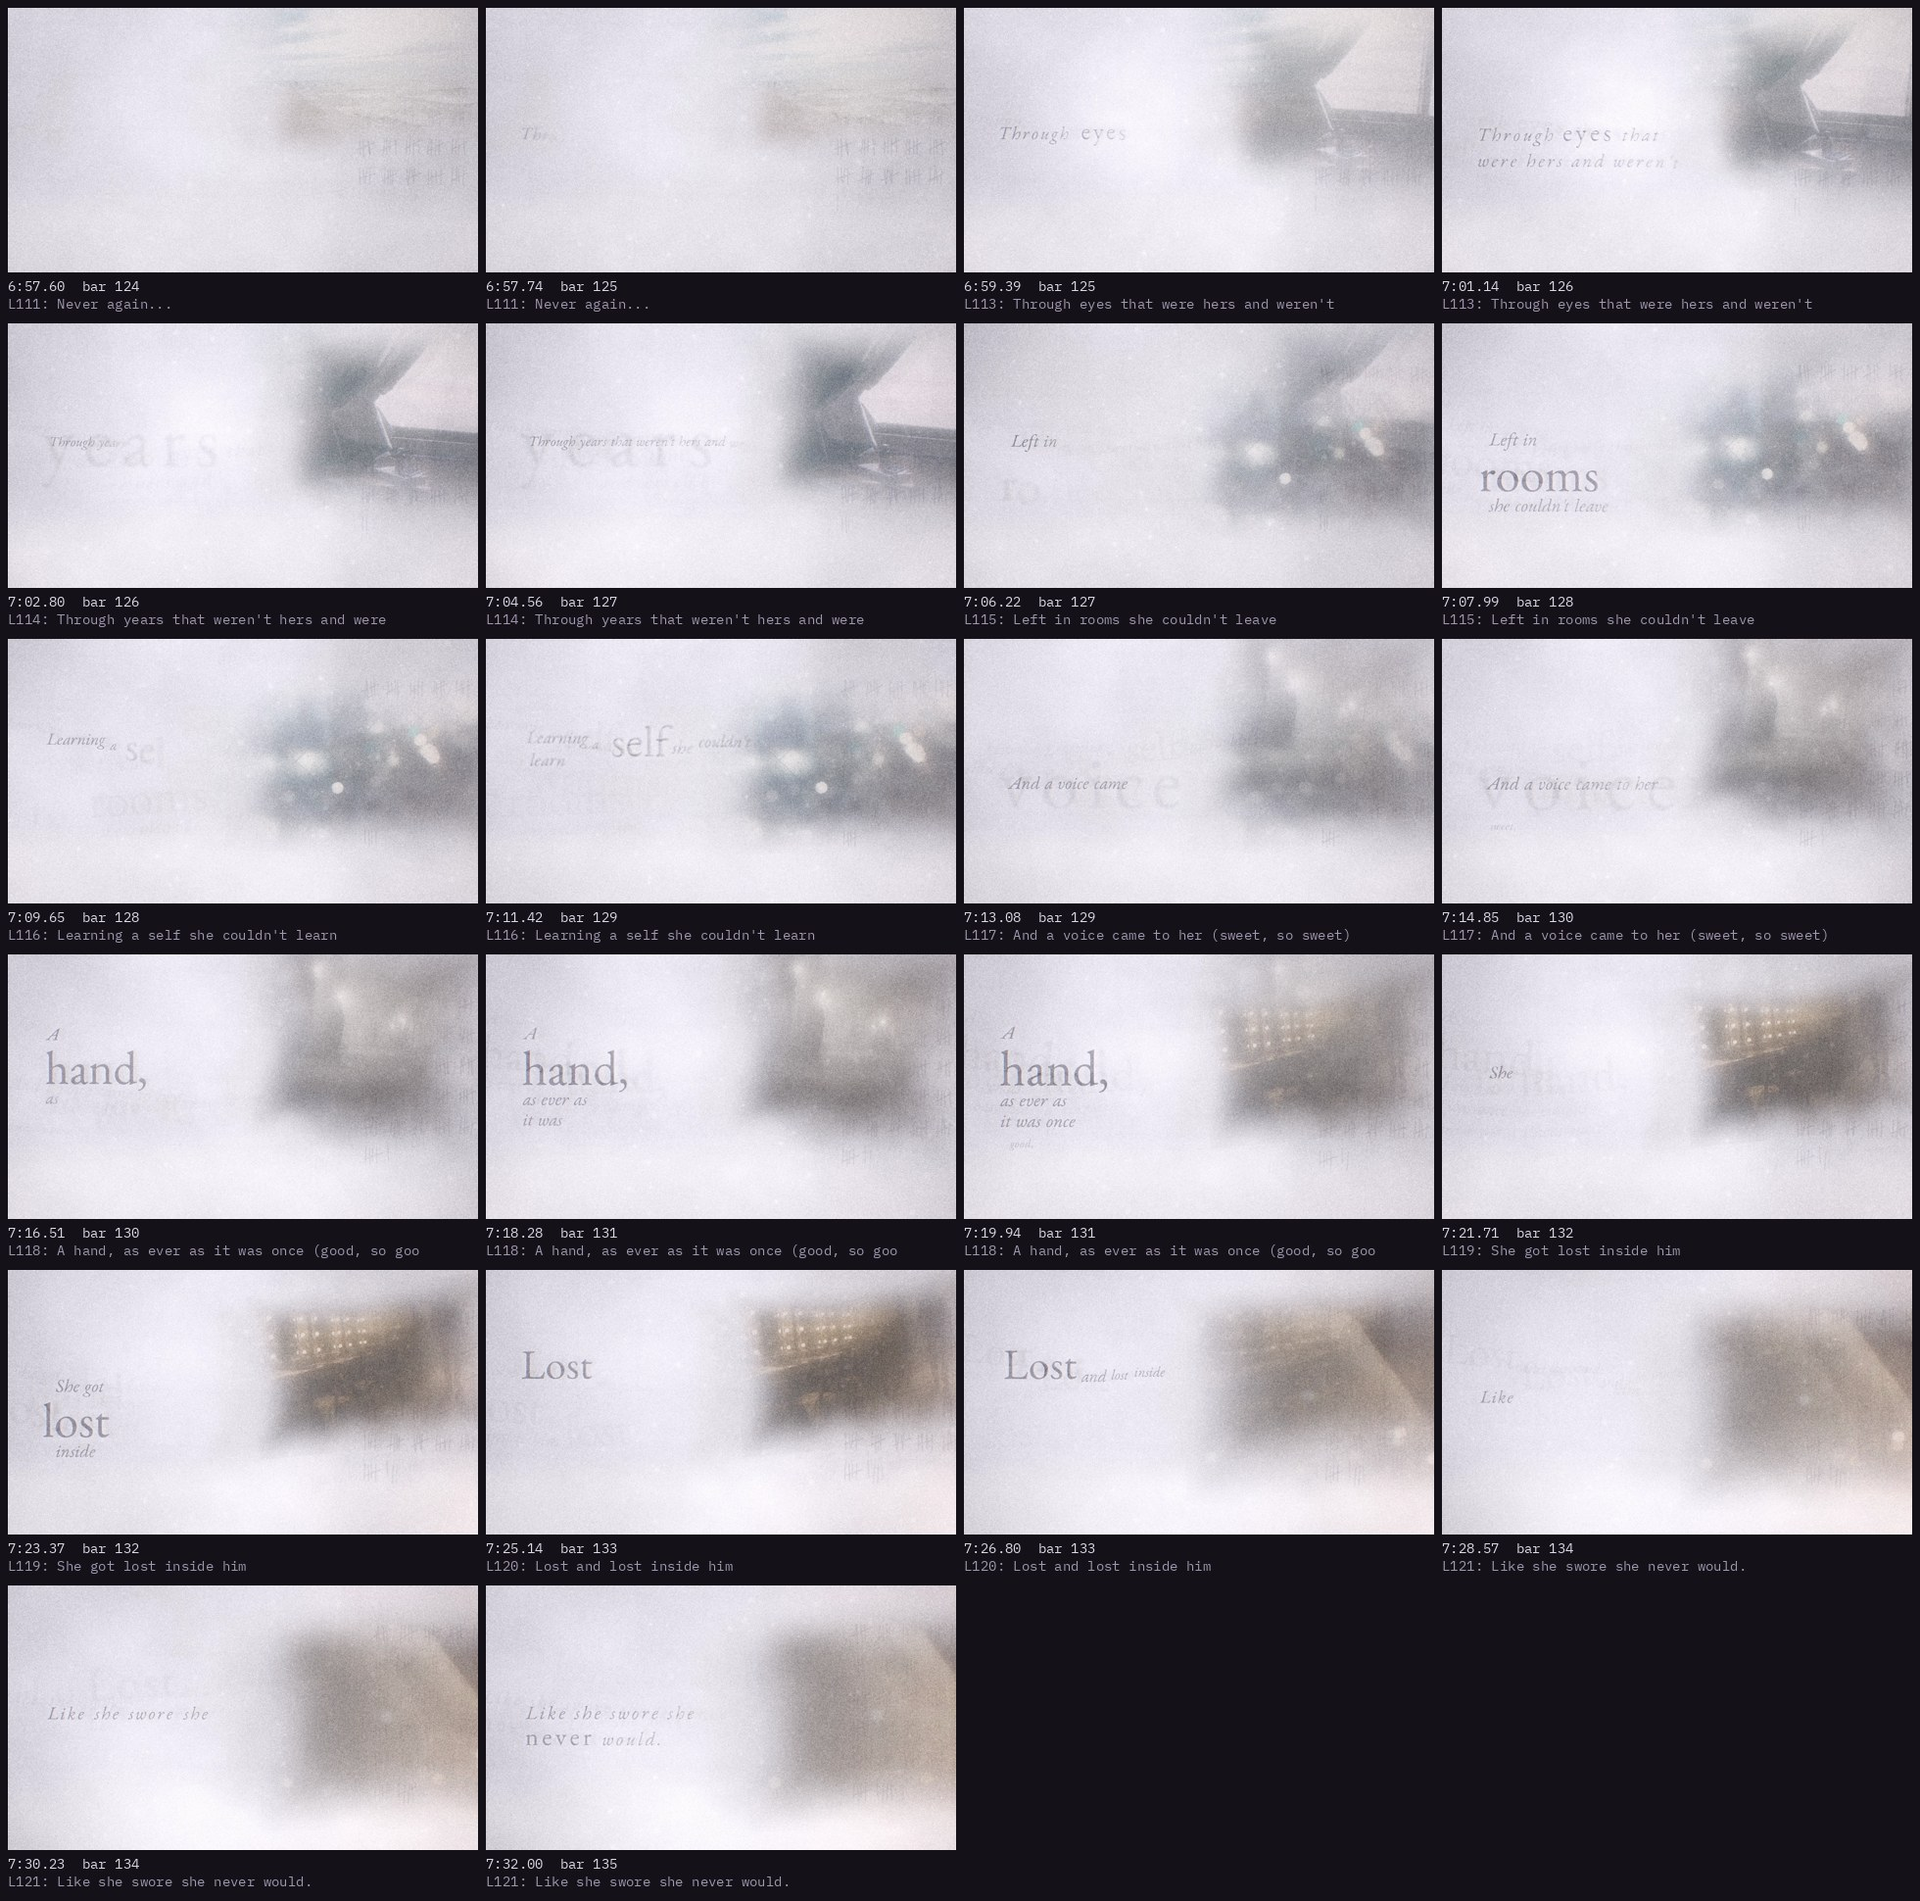
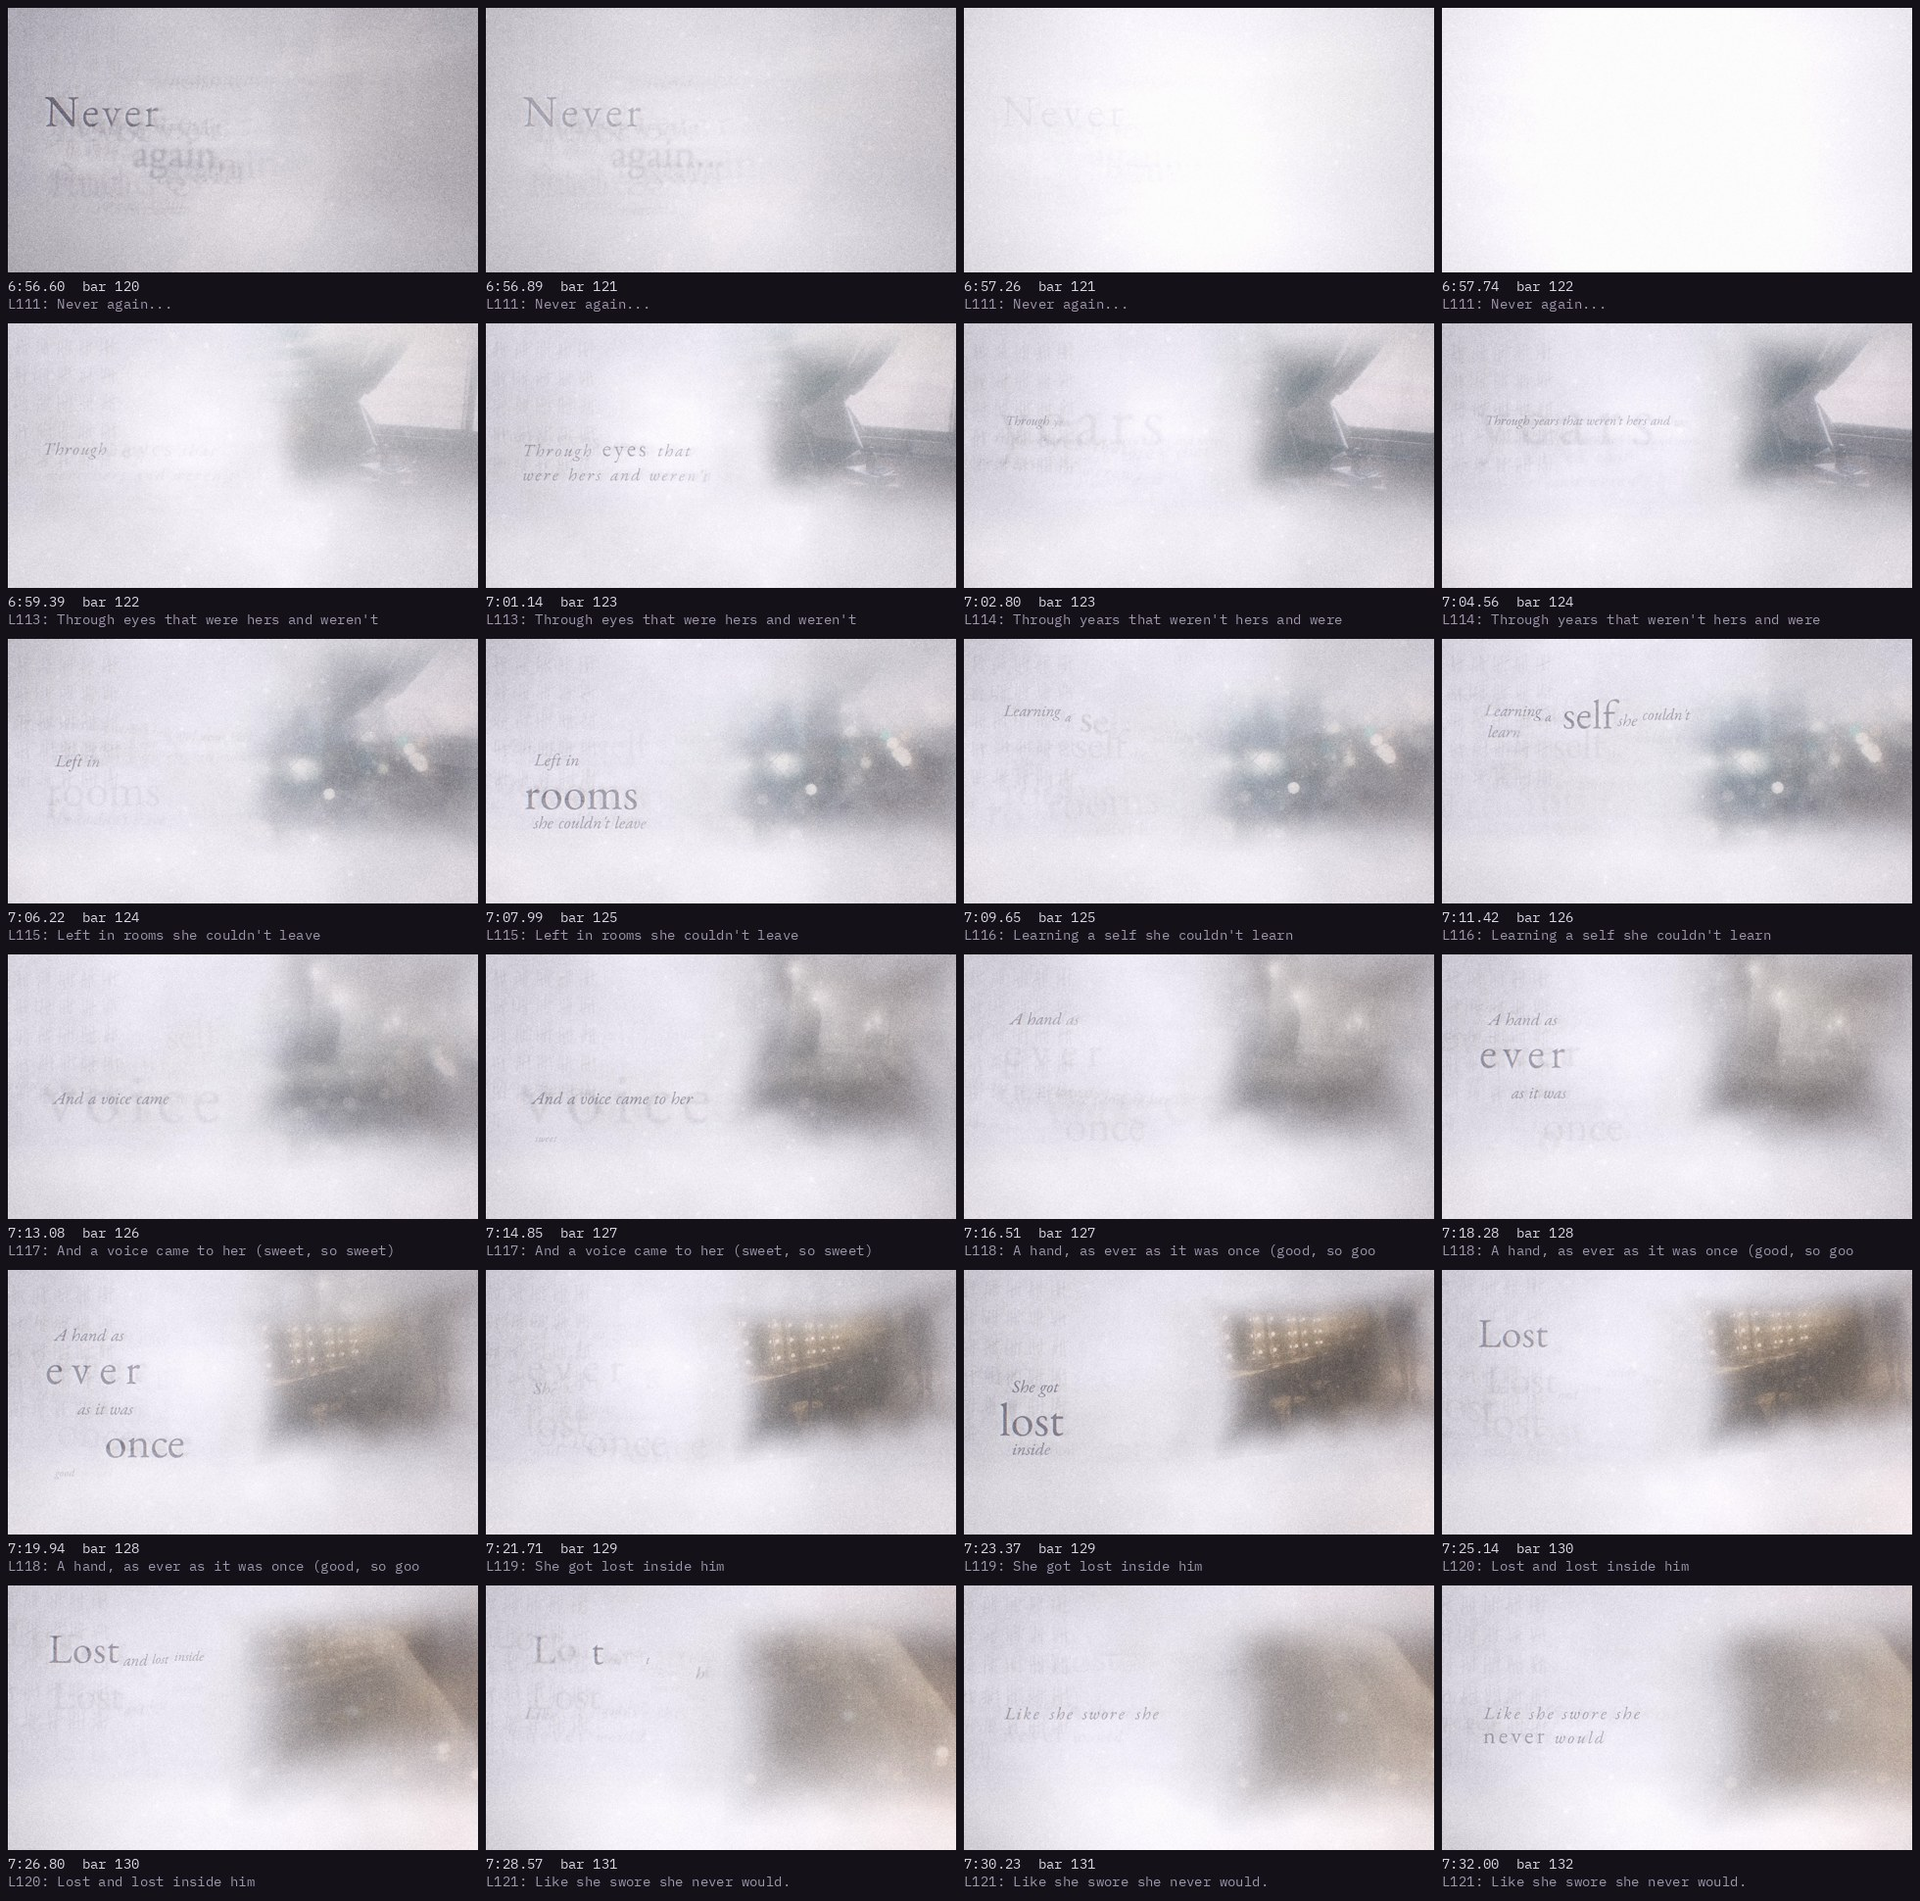
Verse A reprise: less overexposed so her words stay legible
Claude-Session: https://claude.ai/code/session_013aPae8dR11r7xw8o95d9Yi

diff --git a/video/compose.py b/video/compose.py
@@ -82,9 +82,9 @@ def verse_a_like(t, T, lines, name="Verse A: Through eyes", offset=0, seed=3, ye
              diffusion=0.14, grain=0.045, trail=0.62,
              ghosts=((1.2, -160, 0, -5, 0.16), (2.4, 150, -10, 4, 0.10)))
     if years:
-        p.update(exposure=1.02, lift=0.12, sat=0.7, trail=0.7,
-                 ghosts=((1.0, -180, 0, -5, 0.22), (2.0, 170, -10, 4, 0.16),
-                         (3.4, -70, 14, 2, 0.12), (4.6, 90, -16, -3, 0.08)))
+        p.update(exposure=0.95, lift=0.1, sat=0.75, trail=0.66,              # brighter than the
+                 ghosts=((1.0, -180, 0, -5, 0.15), (2.0, 170, -10, 4, 0.11),  # first time, her
+                         (3.4, -70, 14, 2, 0.08), (4.6, 90, -16, -3, 0.05)))   # words still legible
     return img, p
 
 
